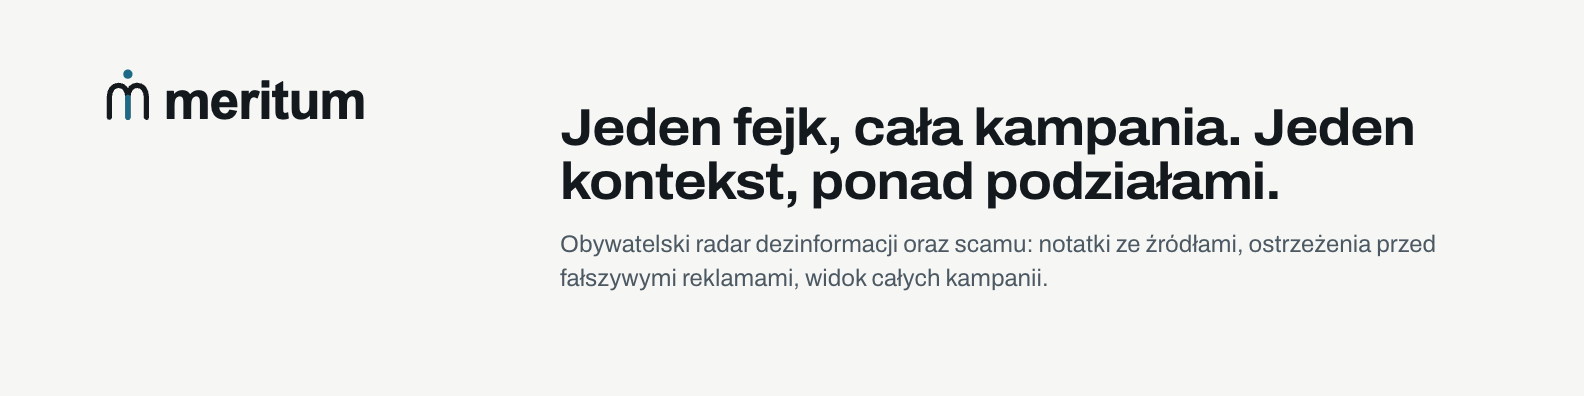
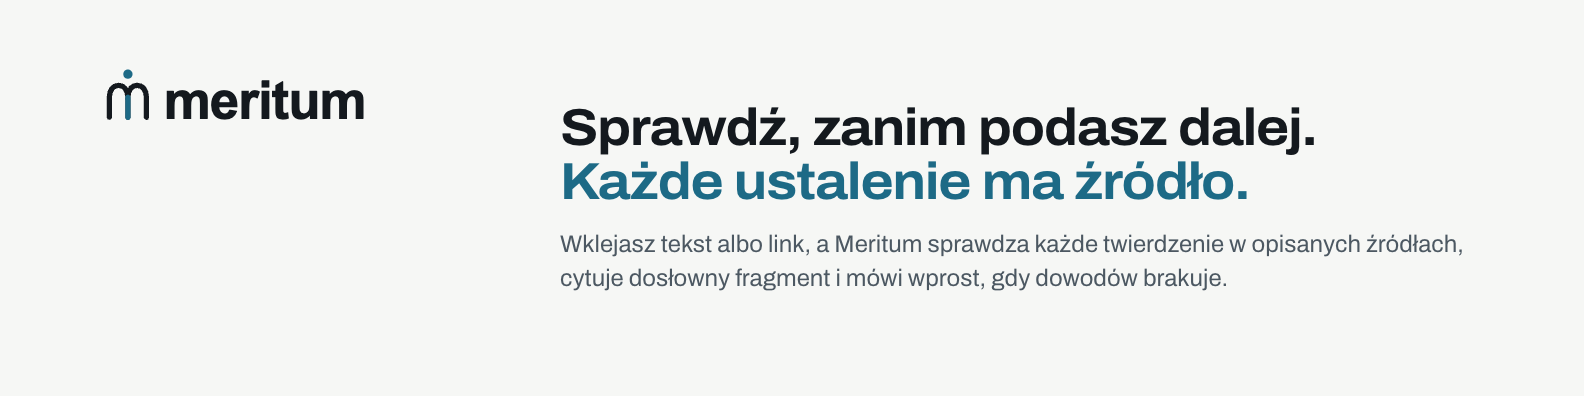
Logotypy i grafiki do mediów bez starego podtytułu i starego produktu
- brand/exports: logotyp z podtytułem „obywatelski radar dezinformacji” (SVG i PNG @2x, jasny i ciemny), szerokość dopasowana do krótszego tekstu
- presentation/social: og, post, story i baner LinkedIn opisywały kampanie, notatki z konsensusem i fałszywe reklamy; teraz mają hasło i opis z KEY_SELLING_POINTS.md oraz trzy kroki z PRODUCT.md zamiast zrzutów starej karty, z twardą spacją po jednoliterowych słowach; PNG wyrenderowane przez render.py social
- alt logotypu w slajdach i podtytuł okładki w artifact/ bez „oraz scamu”
- DESIGN_SYSTEM.md i artifact/project/README.md bez ostrzeżenia o nieaktualnych eksportach

Changed region(s): [[0.3403, 0.2727, 0.8971, 0.5455], [0.3403, 0.5758, 0.928, 0.6364], [0.3403, 0.6667, 0.7734, 0.7273]]

diff --git a/presentation/social/story-1080x1920.html b/presentation/social/story-1080x1920.html
@@ -2,9 +2,13 @@
 <style>.c{width:1080px;height:1920px;padding:200px 80px 0}
 .lock{width:420px}h1{font-size:104px;margin-top:96px}p{font-size:34px;margin-top:36px;max-width:860px}
 .card{position:absolute;left:80px;top:980px;width:920px;display:block}
-.sim{position:absolute;left:80px;bottom:110px;font-size:24px}</style></head>
-<body><div class="c"><img class="lock" src="../../brand/exports/meritum-lockup-subtitle-light.svg" alt="Meritum — obywatelski radar dezinformacji oraz scamu">
-<h1>Pojedynczy fejk znika. Kolekcja zostaje.</h1>
-<p>Wtyczka oznacza fałszywą reklamę, zanim ktoś kliknie, i zapisuje dowód, nawet gdy reklama zniknie.</p>
-<img class="card" src="../screenshots/x-05-card.png" alt="Ostrzeżenie Meritum: fałszywa reklama, nie podawaj tam żadnych danych">
-<p class="sim">Makieta demo. Prezenter „Tomasz Rewiński” i domeny są fikcyjne.</p></div></body></html>
+.sim{position:absolute;left:80px;bottom:110px;font-size:24px}.steps{list-style:none}.steps li{display:flex;gap:24px;align-items:baseline;border-top:1px solid var(--line);color:var(--ink)}.steps b{color:var(--sea);font-family:"Azeret Mono",monospace;font-weight:500}.steps{position:absolute;left:80px;right:80px;top:1120px}.steps li{font-size:38px;line-height:1.3;padding:36px 0}</style></head>
+<body><div class="c"><img class="lock" src="../../brand/exports/meritum-lockup-subtitle-light.svg" alt="Meritum, obywatelski radar dezinformacji">
+<h1>Sprawdź, zanim podasz dalej. <span class="a">Każde ustalenie ma źródło.</span></h1>
+<p>Wklejasz tekst albo link, a&nbsp;Meritum sprawdza każde twierdzenie w&nbsp;opisanych źródłach, cytuje dosłowny fragment i&nbsp;mówi wprost, gdy dowodów brakuje.</p>
+<ol class="steps">
+<li><b>1</b>Wklejasz tekst albo link na stronie albo klikasz „Sprawdź” pod postem.</li>
+<li><b>2</b>Meritum szuka w&nbsp;dokumentach urzędowych, danych publicznych i&nbsp;u&nbsp;fact-checkerów.</li>
+<li><b>3</b>Dostajesz werdykt z&nbsp;dosłownym cytatem i&nbsp;źródłem albo uczciwe „brak wystarczających dowodów”.</li>
+</ol>
+<p class="sim">Prototyp na HackNation 2026, konkurs MSZ „Prawdowid”.</p></div></body></html>

diff --git a/presentation/social/post-1080x1080.html b/presentation/social/post-1080x1080.html
@@ -2,8 +2,11 @@
 <style>.c{width:1080px;height:1080px;padding:80px}
 h1{font-size:68px;max-width:780px}p{font-size:28px;margin-top:28px;max-width:820px}
 .card{position:absolute;left:80px;top:420px;width:760px;display:block}
-.lock{position:absolute;right:80px;top:84px;width:56px}</style></head>
-<body><div class="c"><h1>AI pisze. Ludzie decydują. Źródła są obowiązkowe.</h1>
-<p>Każda notatka Meritum ma źródło, nazywa technikę manipulacji i pokazuje, że zgoda przyszła z obu stron.</p>
-<img class="lock" src="../../brand/meritum-mark.svg" alt="Meritum">
-<img class="card" src="../screenshots/x-04-card.png" alt="Notatka Meritum ze źródłami i paskami zgody dwóch grup"></div></body></html>
+.lock{position:absolute;right:80px;top:84px;width:56px}.steps{list-style:none}.steps li{display:flex;gap:24px;align-items:baseline;border-top:1px solid var(--line);color:var(--ink)}.steps b{color:var(--sea);font-family:"Azeret Mono",monospace;font-weight:500}.steps{position:absolute;left:80px;right:80px;top:470px}.steps li{font-size:30px;line-height:1.35;padding:28px 0}</style></head>
+<body><div class="c"><h1>Sprawdź, zanim podasz dalej. <span class="a">Każde ustalenie ma źródło.</span></h1>
+<ol class="steps">
+<li><b>1</b>Wklejasz tekst albo link na stronie albo klikasz „Sprawdź” pod postem.</li>
+<li><b>2</b>Meritum szuka w&nbsp;dokumentach urzędowych, danych publicznych i&nbsp;u&nbsp;fact-checkerów.</li>
+<li><b>3</b>Dostajesz werdykt z&nbsp;dosłownym cytatem i&nbsp;źródłem albo uczciwe „brak wystarczających dowodów”.</li>
+</ol>
+<img class="lock" src="../../brand/meritum-mark.svg" alt="Meritum"></div></body></html>

diff --git a/presentation/social/og-1200x630.html b/presentation/social/og-1200x630.html
@@ -1,8 +1,7 @@
 <!doctype html><html lang="pl"><head><meta charset="utf-8"><title>Meritum: obraz OG</title><link rel="stylesheet" href="_base.css">
-<style>.c{width:1200px;height:630px;display:grid;grid-template-columns:1fr 470px;gap:48px;padding:64px 0 64px 72px}
+<style>.c{width:1200px;height:630px;display:grid;grid-template-columns:1fr;padding:64px 72px}
 h1{font-size:60px;margin-top:56px}.lock{width:330px}p{font-size:22px;margin-top:24px;max-width:540px}
 .card{align-self:center;width:440px;display:block}</style></head>
-<body><div class="c"><div><img class="lock" src="../../brand/exports/meritum-lockup-subtitle-light.svg" alt="Meritum — obywatelski radar dezinformacji oraz scamu">
-<h1>Jeden fejk, cała kampania. Jeden kontekst, ponad podziałami.</h1>
-<p>Notatka pod postem publikuje się dopiero, gdy zgodzą się ludzie, którzy zwykle się nie zgadzają.</p></div>
-<img class="card" src="../screenshots/x-04-card.png" alt="Notatka Meritum: kontekst od społeczności ze źródłami"></div></body></html>
+<body><div class="c"><div><img class="lock" src="../../brand/exports/meritum-lockup-subtitle-light.svg" alt="Meritum, obywatelski radar dezinformacji">
+<h1>Sprawdź, zanim podasz dalej. <span class="a">Każde ustalenie ma źródło.</span></h1>
+<p>Wklejasz tekst albo link, a&nbsp;Meritum sprawdza każde twierdzenie w&nbsp;opisanych źródłach, cytuje dosłowny fragment i&nbsp;mówi wprost, gdy dowodów brakuje.</p></div></div></body></html>

diff --git a/presentation/slides/index.html b/presentation/slides/index.html
@@ -176,7 +176,7 @@ body.notes #notes{display:block}
 <section class="slide" data-layout="tytul">
  <div class="s-title">
   <div>
-   <img class="lockup" src="../../brand/exports/meritum-lockup-subtitle-light.svg" alt="Meritum — obywatelski radar dezinformacji oraz scamu">
+   <img class="lockup" src="../../brand/exports/meritum-lockup-subtitle-light.svg" alt="Meritum, obywatelski radar dezinformacji">
    <h1>Jeden fejk, cała kampania. Jeden kontekst, ponad podziałami.</h1>
   </div>
   <img class="shot" src="../screenshots/x-04-context-note.png" alt="Notatka Meritum pod postem na makiecie X">
@@ -344,7 +344,7 @@ body.notes #notes{display:block}
 <section class="slide s-close" data-layout="zamkniecie">
  <h1>Jeden fejk, cała kampania. Jeden kontekst, ponad podziałami.</h1>
   <h2>AI pisze. Ludzie decydują. Źródła są obowiązkowe.</h2>
- <img class="lockup" src="../../brand/exports/meritum-lockup-subtitle-light.svg" alt="Meritum — obywatelski radar dezinformacji oraz scamu">
+ <img class="lockup" src="../../brand/exports/meritum-lockup-subtitle-light.svg" alt="Meritum, obywatelski radar dezinformacji">
  <aside>Hasło pod konkretny konkurs. MSZ: „AI pisze. Ludzie decydują. Źródła są obowiązkowe.” NASK: „Pojedynczy fejk znika. Kolekcja zostaje.”</aside>
 </section>
 

diff --git a/presentation/social/linkedin-banner-1584x396.html b/presentation/social/linkedin-banner-1584x396.html
@@ -3,5 +3,5 @@
 /* left 560px stays quiet: LinkedIn puts the profile photo over the lower left */
 .lock{position:absolute;left:96px;top:64px;width:300px}h1{font-size:52px}p{font-size:24px;margin-top:18px}</style></head>
 <body><div class="c"><img class="lock" src="../../brand/exports/meritum-lockup-light.svg" alt="Meritum">
-<h1>Jeden fejk, cała kampania. Jeden kontekst, ponad podziałami.</h1>
-<p>Obywatelski radar dezinformacji oraz scamu: notatki ze źródłami, ostrzeżenia przed fałszywymi reklamami, widok całych kampanii.</p></div></body></html>
+<h1>Sprawdź, zanim podasz dalej. <span class="a">Każde ustalenie ma źródło.</span></h1>
+<p>Wklejasz tekst albo link, a&nbsp;Meritum sprawdza każde twierdzenie w&nbsp;opisanych źródłach, cytuje dosłowny fragment i&nbsp;mówi wprost, gdy dowodów brakuje.</p></div></body></html>

diff --git a/artifact/project/components/Cover/preview.html b/artifact/project/components/Cover/preview.html
@@ -21,5 +21,5 @@
 <path class="arch" d="M652 300V196c0-29 15-46 34-46s34 17 34 46v104M720 196c0-29 15-46 34-46s34 17 34 46v104"/>
 <circle class="dot" cx="720" cy="104" r="15"/>
 </svg>
-<div class="txt"><h1>Meritum</h1><p>obywatelski radar dezinformacji oraz scamu</p></div>
+<div class="txt"><h1>Meritum</h1><p>obywatelski radar dezinformacji</p></div>
 </div>

diff --git a/DESIGN_SYSTEM.md b/DESIGN_SYSTEM.md
@@ -32,7 +32,7 @@ Znak **„Dwa łuki”**: małe „m” z dwóch łuków. Łuki to twierdzenie i
 - Pole ochronne: wysokość kropki nad „m” z każdej strony.
 - Trzon i kropka zawsze w kolorze akcentu (`#1D6A86` jasno, `#5DB3CF` ciemno). Łuki w kolorze tekstu.
 - W widżecie na platformach znak ma 14 px i stoi przed słowem „Meritum” w małym nagłówku.
-- Gotowe pliki PNG (512, 1024), ikony 16 do 512 px i poziomy logotyp z podtytułem są w `brand/exports/`. Pliki z podtytułem pokazują jeszcze stary tekst „oraz scamu” i trzeba je wygenerować ponownie.
+- Gotowe pliki PNG (512, 1024), ikony 16 do 512 px i poziomy logotyp z podtytułem są w `brand/exports/`. Logotyp z podtytułem ma tekst „obywatelski radar dezinformacji”.
 
 **Nie wolno:** obracać znaku, dodawać cienia ani gradientu, zmieniać koloru trzonu na inny niż akcent, umieszczać znaku obok logotypów platform tak, jakby był ich częścią, ani rozciągać go.
 

diff --git a/artifact/project/README.md b/artifact/project/README.md
@@ -34,7 +34,7 @@ Znak **„Dwa łuki”**: małe „m” z dwóch łuków. Łuki to twierdzenie i
 - Pole ochronne: wysokość kropki nad „m” z każdej strony.
 - Trzon i kropka zawsze w kolorze akcentu (`#1D6A86` jasno, `#5DB3CF` ciemno). Łuki w kolorze tekstu.
 - W widżecie na platformach znak ma 14 px i stoi przed słowem „Meritum” w małym nagłówku.
-- Gotowe pliki PNG (512, 1024), ikony 16 do 512 px i poziomy logotyp z podtytułem są w `brand/exports/`. Pliki z podtytułem pokazują jeszcze stary tekst „oraz scamu” i trzeba je wygenerować ponownie.
+- Gotowe pliki PNG (512, 1024), ikony 16 do 512 px i poziomy logotyp z podtytułem są w `brand/exports/`. Logotyp z podtytułem ma tekst „obywatelski radar dezinformacji”.
 
 **Nie wolno:** obracać znaku, dodawać cienia ani gradientu, zmieniać koloru trzonu na inny niż akcent, umieszczać znaku obok logotypów platform tak, jakby był ich częścią, ani rozciągać go.
 
